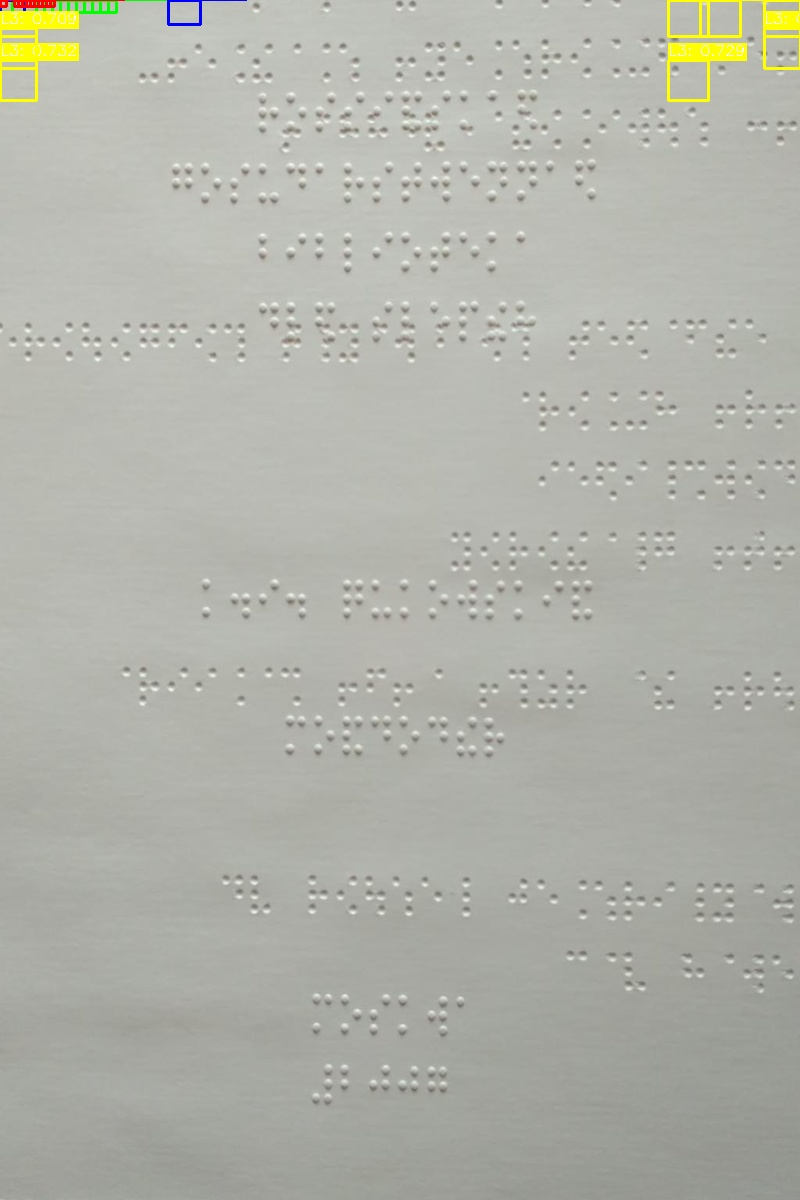
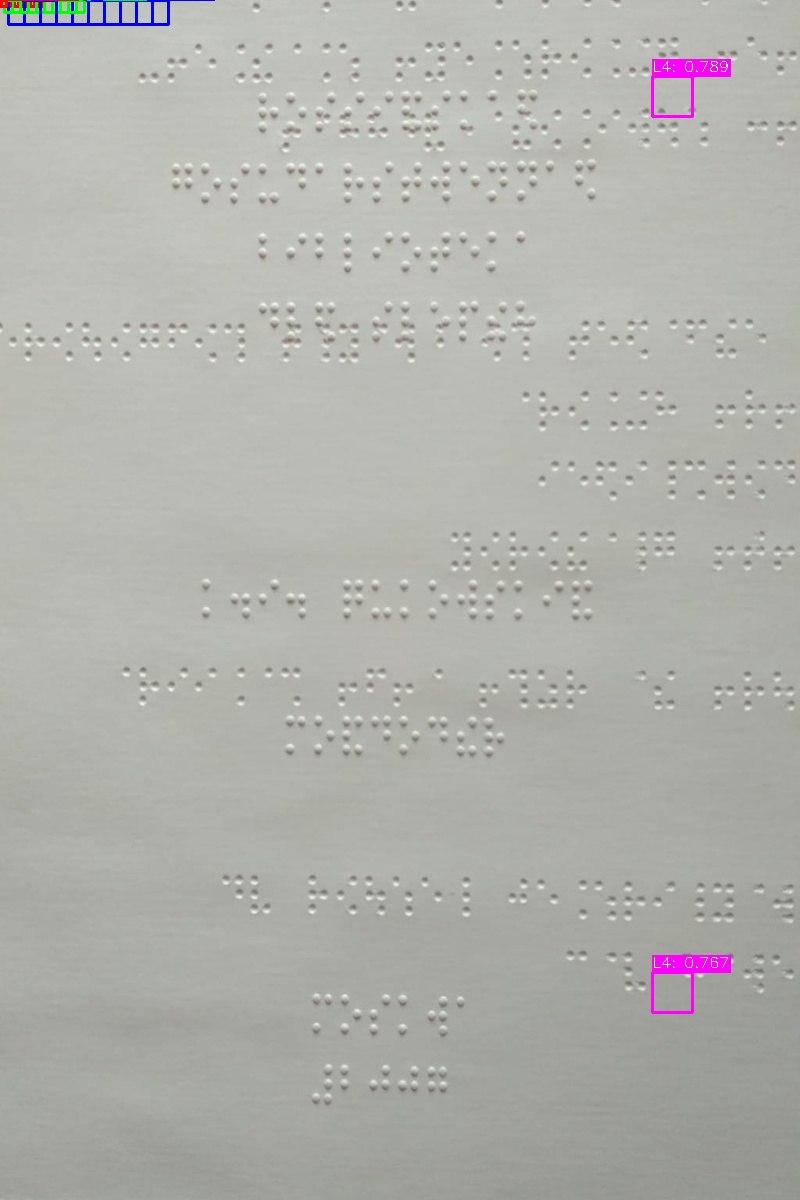
fixed traget generation

Changed region(s): [[0.8125, 0.0, 1.0, 0.1233], [0.0, 0.0, 0.2812, 0.0925], [0.8125, 0.7708, 0.9062, 0.8633]]

diff --git a/model/Targets.py b/model/Targets.py
@@ -2,12 +2,95 @@ from typing import Tuple, List
 import torch
 import math
 
-def generate_targets(img_shape, class_labels_by_batch, box_labels_by_batch, strides):
+def debug_target_generation(class_labels_by_batch, box_labels_by_batch, img_shape, strides):
+    """Debug what targets are actually being generated"""
+    print("=== TARGET GENERATION DEBUG ===")
+    print(f"Image shape: {img_shape}")
+    print(f"Strides: {strides}")
+    
+    for batch_idx, (cls_batch, box_batch) in enumerate(zip(class_labels_by_batch, box_labels_by_batch)):
+        print(f"\nBatch {batch_idx}:")
+        print(f"  Classes: {cls_batch}")
+        print(f"  Boxes shape: {box_batch.shape}")
+        print(f"  Number of boxes: {len(box_batch)}")
+        
+        if len(box_batch) == 0:
+            print("  WARNING: No ground truth boxes!")
+            continue
+            
+        # Check if boxes are reasonable
+        for i, box in enumerate(box_batch):
+            x1, y1, x2, y2 = box
+            w, h = x2 - x1, y2 - y1
+            print(f"    Box {i}: ({x1:.1f}, {y1:.1f}, {x2:.1f}, {y2:.1f}) "
+                  f"size=({w:.1f}x{h:.1f}) class={cls_batch[i]}")
+            
+            if w <= 0 or h <= 0:
+                print(f"    ERROR: Invalid box dimensions!")
+            if x1 < 0 or y1 < 0 or x2 >= img_shape[3] or y2 >= img_shape[2]:
+                print(f"    ERROR: Box outside image bounds!")
+                print(f"    Image bounds: width={img_shape[3]}, height={img_shape[2]}")
+
+def debug_generated_targets(class_targets_by_feature, centerness_target_by_feature, box_targets_by_feature, strides):
+    """Debug the generated targets"""
+    print("\n=== GENERATED TARGETS ANALYSIS ===")
+    
+    for level_idx in range(len(class_targets_by_feature)):
+        cls_target = class_targets_by_feature[level_idx][0]  # First batch
+        cen_target = centerness_target_by_feature[level_idx][0]
+        box_target = box_targets_by_feature[level_idx][0]
+        
+        stride = strides[level_idx]
+        
+        print(f"\nLevel {level_idx} (stride {stride}):")
+        print(f"  Feature map shape: {cls_target.shape}")
+        print(f"  Unique classes: {torch.unique(cls_target)}")
+        
+        # Count positive samples
+        positive_mask = cls_target > 0
+        positive_count = positive_mask.sum().item()
+        total_locations = cls_target.numel()
+        positive_ratio = positive_count / total_locations
+        
+        print(f"  Positive samples: {positive_count}/{total_locations} ({positive_ratio:.4f})")
+        
+        if positive_count > 0:
+            # Show where positive samples are
+            pos_y, pos_x = torch.where(positive_mask)
+            print(f"  Positive locations Y: {pos_y.min().item()}-{pos_y.max().item()}")
+            print(f"  Positive locations X: {pos_x.min().item()}-{pos_x.max().item()}")
+            
+            # Show centerness stats for positive samples
+            pos_centerness = cen_target[positive_mask]
+            print(f"  Centerness range: {pos_centerness.min():.3f} to {pos_centerness.max():.3f}")
+            print(f"  Mean centerness: {pos_centerness.mean():.3f}")
+            
+            # Show some example positive samples
+            print(f"  Example positive samples:")
+            for i in range(min(3, len(pos_y))):
+                y, x = pos_y[i].item(), pos_x[i].item()
+                cls = cls_target[y, x].item()
+                cent = cen_target[y, x].item()
+                box = box_target[y, x]
+                print(f"    ({x}, {y}): class={cls}, cent={cent:.3f}, box=[{box[0]:.1f}, {box[1]:.1f}, {box[2]:.1f}, {box[3]:.1f}]")
+        
+        # Check for potential issues
+        if positive_ratio > 0.1:  # More than 10%
+            print(f"  WARNING: Too many positive samples ({positive_ratio:.1%})")
+        elif positive_ratio < 0.001:  # Less than 0.1%
+            print(f"  WARNING: Very few positive samples ({positive_ratio:.1%})")
+        else:
+            print(f"  ✓ Positive ratio looks good ({positive_ratio:.1%})")
+
+def generate_targets(img_shape, class_labels_by_batch, box_labels_by_batch, strides, debug=False):
     """Fixed target generation with proper coordinate handling"""
+    
+    # ADD DEBUG HERE
+    if debug:
+        debug_target_generation(class_labels_by_batch, box_labels_by_batch, img_shape, strides)
     
     batch_size = img_shape[0]
     img_h, img_w = img_shape[2], img_shape[3]
-    
     
     # Size ranges for target assignment
     m = (0, 20, 40, 80, 160, 320, math.inf)
@@ -16,10 +99,11 @@ def generate_targets(img_shape, class_labels_by_batch, box_labels_by_batch, stri
     centerness_target_by_feature = []
     box_targets_by_feature = []
     
+    total_positive_assigned = 0  # Track total positive assignments
+    
     for i, stride in enumerate(strides):
         feat_h = img_h // stride
         feat_w = img_w // stride
-        
         
         # Initialize targets
         class_target_for_feature = torch.zeros(batch_size, feat_h, feat_w, dtype=torch.long)
@@ -31,8 +115,15 @@ def generate_targets(img_shape, class_labels_by_batch, box_labels_by_batch, stri
         
         positive_count = 0
         
+        if debug:
+            print(f"\nProcessing Level {i} (stride {stride}):")
+            print(f"  Feature map: {feat_w}x{feat_h}")
+            print(f"  Size range: {min_box_side} to {max_box_side}")
+        
         for batch_idx, (class_labels, box_labels) in enumerate(zip(class_labels_by_batch, box_labels_by_batch)):
             if len(box_labels) == 0:
+                if debug:
+                    print(f"  Batch {batch_idx}: No boxes")
                 continue
             
             for j in range(len(box_labels)):
@@ -50,6 +141,8 @@ def generate_targets(img_shape, class_labels_by_batch, box_labels_by_batch, stri
                 
                 # Size filtering
                 if max_side < min_box_side or max_side >= max_box_side:
+                    if debug and j < 3:  # Only show first few for debugging
+                        print(f"    Box {j}: size {max_side:.1f} outside range [{min_box_side}, {max_box_side})")
                     continue
                 
                 # FIXED: Convert to feature map coordinates
@@ -61,30 +154,54 @@ def generate_targets(img_shape, class_labels_by_batch, box_labels_by_batch, stri
                     grid_x = int(feat_center_x)
                     grid_y = int(feat_center_y)
                     
-                    # Assign target
-                    class_target_for_feature[batch_idx, grid_y, grid_x] = class_id
-                    positive_count += 1
-                    
-                    # Calculate regression targets (distances from center to edges)
-                    left = feat_center_x - x1 / stride
-                    top = feat_center_y - y1 / stride
-                    right = x2 / stride - feat_center_x
-                    bottom = y2 / stride - feat_center_y
-                    
-                    # Calculate centerness
-                    if left > 0 and top > 0 and right > 0 and bottom > 0:
-                        centerness = math.sqrt(
-                            (min(left, right) / max(left, right)) *
-                            (min(top, bottom) / max(top, bottom))
-                        )
-                        centerness_target_for_feature[batch_idx, grid_y, grid_x] = centerness
-                        box_target_for_feature[batch_idx, grid_y, grid_x] = torch.tensor([
-                            left, top, right, bottom
-                        ])
+                    # POTENTIAL FIX: Check if this location is already assigned
+                    if class_target_for_feature[batch_idx, grid_y, grid_x] == 0:  # Only assign if background
+                        # Assign target
+                        class_target_for_feature[batch_idx, grid_y, grid_x] = class_id
+                        positive_count += 1
+                        
+                        # Calculate regression targets (distances from center to edges)
+                        left = feat_center_x - x1 / stride
+                        top = feat_center_y - y1 / stride
+                        right = x2 / stride - feat_center_x
+                        bottom = y2 / stride - feat_center_y
+                        
+                        # FIXED: Ensure all distances are positive
+                        if left > 0 and top > 0 and right > 0 and bottom > 0:
+                            # Calculate centerness
+                            centerness = math.sqrt(
+                                (min(left, right) / max(left, right)) *
+                                (min(top, bottom) / max(top, bottom))
+                            )
+                            centerness_target_for_feature[batch_idx, grid_y, grid_x] = centerness
+                            box_target_for_feature[batch_idx, grid_y, grid_x] = torch.tensor([
+                                left, top, right, bottom
+                            ])
+                            
+                            if debug and positive_count <= 3:  # Show first few assignments
+                                print(f"    Assigned box {j} to grid ({grid_x}, {grid_y}): "
+                                      f"class={class_id}, cent={centerness:.3f}")
+                        else:
+                            # Reset if distances are invalid
+                            class_target_for_feature[batch_idx, grid_y, grid_x] = 0
+                            positive_count -= 1
+                            if debug:
+                                print(f"    Invalid distances for box {j}: l={left:.2f}, t={top:.2f}, r={right:.2f}, b={bottom:.2f}")
+                else:
+                    if debug and j < 3:
+                        print(f"    Box {j} center ({feat_center_x:.1f}, {feat_center_y:.1f}) outside feature map bounds")
         
+        if debug:
+            print(f"  Level {i} assigned {positive_count} positive samples")
+        
+        total_positive_assigned += positive_count
         
         class_targets_by_feature.append(class_target_for_feature)
         centerness_target_by_feature.append(centerness_target_for_feature)
         box_targets_by_feature.append(box_target_for_feature)
+    
+    if debug:
+        print(f"\nTotal positive samples assigned across all levels: {total_positive_assigned}")
+        debug_generated_targets(class_targets_by_feature, centerness_target_by_feature, box_targets_by_feature, strides)
     
     return class_targets_by_feature, centerness_target_by_feature, box_targets_by_feature

diff --git a/model/Train.py b/model/Train.py
@@ -112,9 +112,8 @@ class COCOData(Dataset):
         return ['__background__'] + [c['name'] for c in cats]
 
 def collate_fn(batch):
-    imgs, labels, boxes = zip(*batch)
-    imgs = torch.stack(imgs, dim=0)
-    return imgs, list(labels), list(boxes)
+    imgs, lbls, bxs = zip(*batch)
+    return torch.stack(imgs), list(lbls), list(bxs)
 
 
 def tensor_to_image(tensor):
@@ -372,8 +371,9 @@ def train(train_dir: pathlib.Path, val_dir: pathlib.Path, writer, resume_ckpt_pa
             cls_pred, cen_pred, box_pred = model(batch_norm)
             
             # Generate targets
+            debug_enabled = (epoch == 1 and batch_idx < 3)  # Debug first 3 batches of first epoch
             class_targets, centerness_targets, box_targets = generate_targets(
-                x.shape, class_labels, box_labels, model.strides
+                x.shape, class_labels, box_labels, model.strides, debug=debug_enabled
             )
             
             total_loss, cls_loss, cen_loss, reg_loss = _compute_loss(

diff --git a/model/test.py b/model/test.py
@@ -165,7 +165,7 @@ def tensor_to_image(tensor):
 # 1. Load model
 num_classes = 28
 model = FPN(num_classes=num_classes)
-ckpt = torch.load("runs/fcos_custom/fcos_epoch20.pth", map_location="cpu", weights_only=False)
+ckpt = torch.load("runs/fcos_custom/fcos_epoch10.pth", map_location="cpu", weights_only=False)
 model.load_state_dict(ckpt["model_state"])
 model.eval()
 
